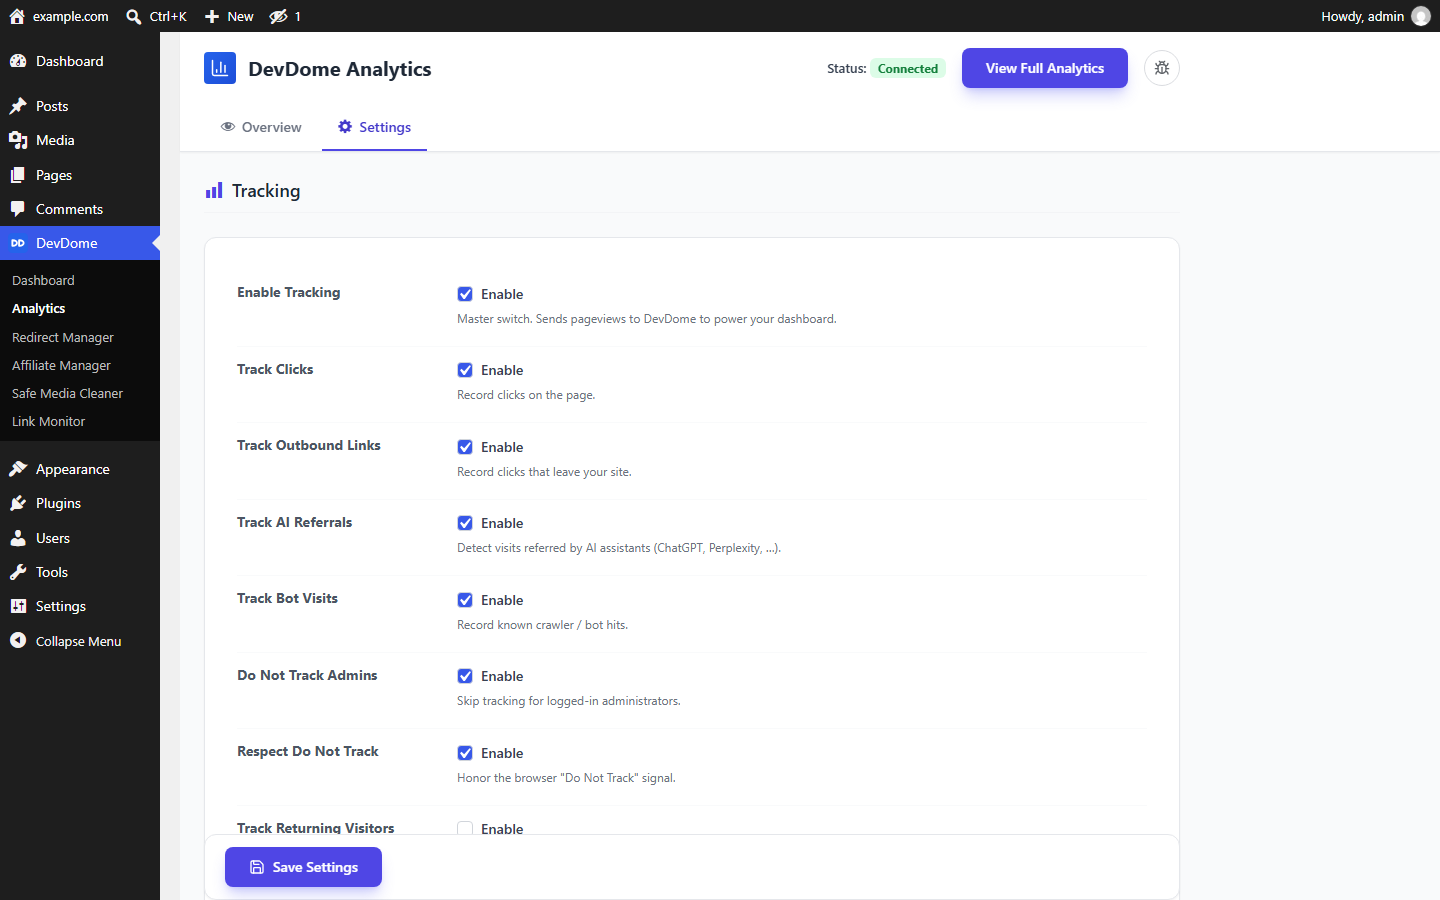
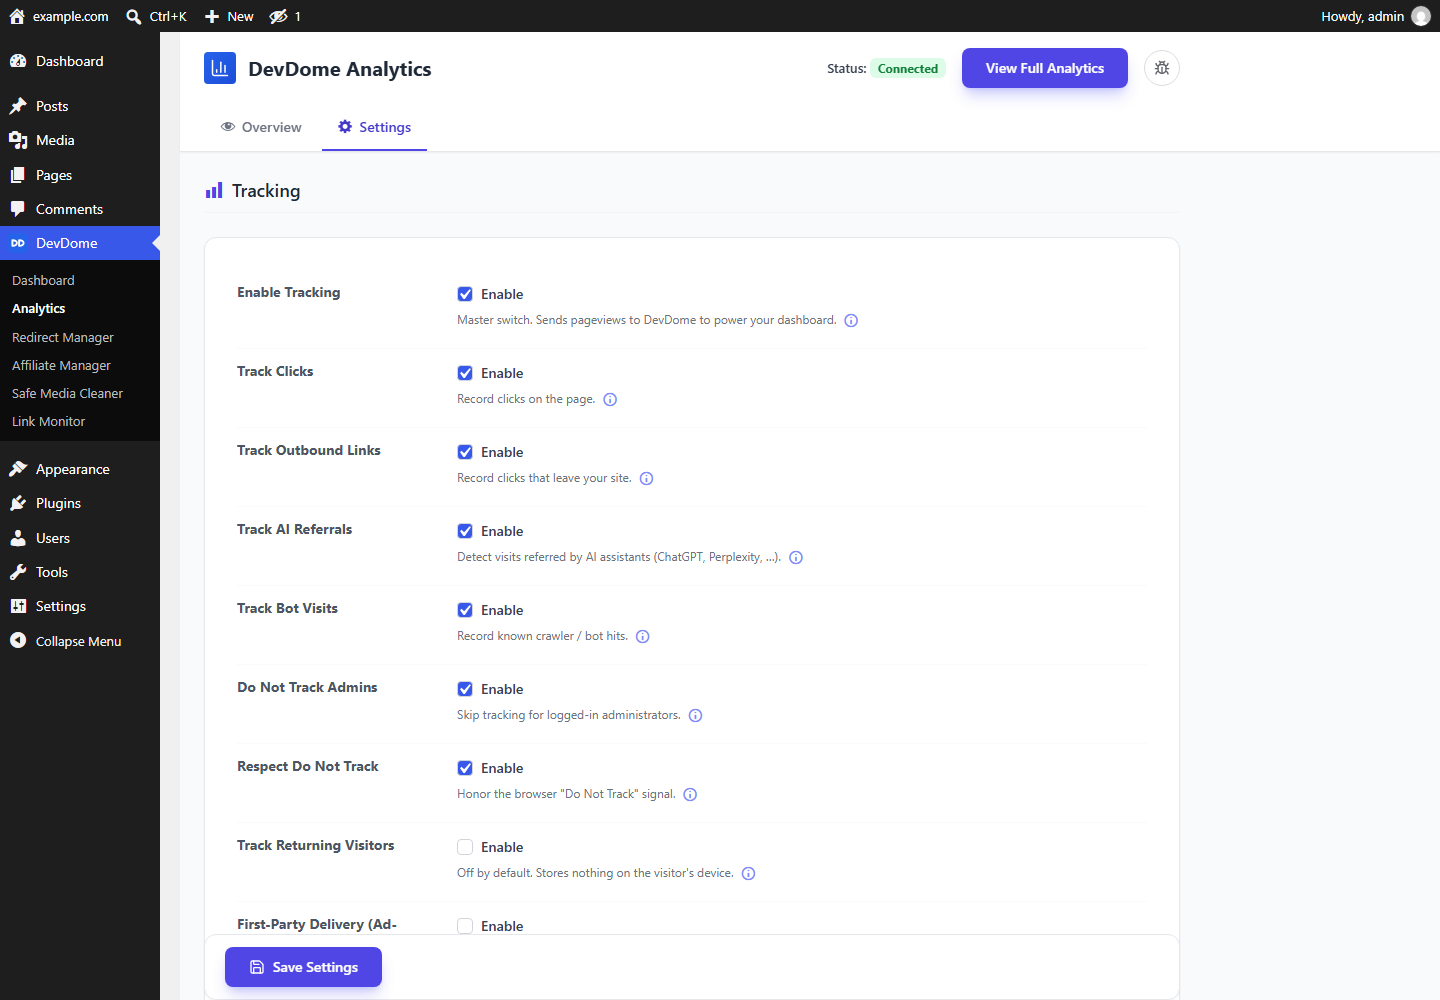
DevDome Analytics 1.0.7 - mirror of the WordPress.org release

diff --git a/lib/devdome-core/hub.php b/lib/devdome-core/hub.php
@@ -39,19 +39,38 @@ function devdcorev1_hub_catalog()
         'devdome-site-monitor'     => array('name' => 'Site Monitor',     'icon' => 'dashicons-heart',       'desc' => 'Uptime, speed, security, SEO &amp; affiliate health in one dashboard.',     'get_url' => 'https://devdome.com/site-monitor',     'position' => 20,  'wporg_slug' => '', 'listed' => false, 'plugin_file' => 'devdome-site-monitor/devdome-site-monitor.php'),
         'devdome-bot-protection'   => array('name' => 'Bot Protection',   'icon' => 'dashicons-shield',      'desc' => 'Block fake clicks &amp; bot traffic so your stats stay real.',               'get_url' => 'https://devdome.com/bot-protection',   'position' => 30,  'wporg_slug' => '', 'listed' => false, 'plugin_file' => 'devdome-bot-protection/devdome-bot-protection.php'),
         'devdome-security-scanner' => array('name' => 'Security Scanner', 'icon' => 'dashicons-shield-alt',  'desc' => 'Scan for malware, vulnerabilities &amp; hardening gaps.',                    'get_url' => 'https://devdome.com/security-scanner', 'position' => 40,  'wporg_slug' => '', 'listed' => false, 'plugin_file' => 'devdome-security-scanner/devdome-security-scanner.php'),
-        'devdome-redirect-manager' => array('name' => 'Redirect Manager', 'icon' => 'dashicons-randomize',   'desc' => 'Rule-based redirects &amp; smart affiliate links with per-rule stats.',              'get_url' => 'https://devdome.com/redirect-manager', 'position' => 50,  'wporg_slug' => '', 'listed' => false, 'plugin_file' => 'devdome-redirect-manager/devdome-redirect-manager.php'),
-        'devdome-affiliate-manager'=> array('name' => 'Affiliate Manager','icon' => 'dashicons-admin-links', 'desc' => 'Sitewide affiliate tags, geo-routing, link scanning &amp; click stats.',      'get_url' => 'https://devdome.com/affiliate-manager','position' => 60,  'wporg_slug' => '', 'listed' => false, 'plugin_file' => 'devdome-affiliate-manager/devdome-affiliate-manager.php'),
+        'devdome-redirect-manager' => array('name' => 'Redirect Manager', 'icon' => 'dashicons-randomize',   'desc' => 'Rule-based redirects &amp; smart affiliate links with per-rule stats.',              'get_url' => 'https://devdome.com/wp-plugins/redirect-manager/', 'position' => 50,  'wporg_slug' => 'devdome-redirect-manager', 'listed' => true, 'plugin_file' => 'devdome-redirect-manager/devdome-redirect-manager.php'),
+        'devdome-affiliate-manager'=> array('name' => 'Affiliate Manager','icon' => 'dashicons-admin-links', 'desc' => 'Sitewide affiliate tags, geo-routing, link scanning &amp; click stats.',      'get_url' => 'https://devdome.com/wp-plugins/affiliate-manager/','position' => 60,  'wporg_slug' => 'devdome-affiliate-manager', 'listed' => true, 'plugin_file' => 'devdome-affiliate-manager/devdome-affiliate-manager.php'),
         'devdome-product-importer' => array('name' => 'Product Importer', 'icon' => 'dashicons-cart',        'desc' => 'Import Amazon products into WooCommerce with AI content &amp; transit links.', 'get_url' => 'https://devdome.com/product-importer', 'position' => 70,  'wporg_slug' => '', 'listed' => false, 'plugin_file' => 'devdome-product-importer/devdome-product-importer.php'),
         'devdome-safe-media-cleaner'    => array('name' => 'Safe Media Cleaner', 'icon' => 'dashicons-format-image','desc' => 'Find unused images, orphaned files &amp; duplicates. Recycle Bin restore.',                      'get_url' => 'https://devdome.com/wp-plugins/safe-media-cleaner/',    'position' => 80,  'wporg_slug' => 'devdome-safe-media-cleaner', 'listed' => true, 'plugin_file' => 'devdome-safe-media-cleaner/devdome-safe-media-cleaner.php'),
+        'devdome-link-monitor'     => array('name' => 'Link Monitor',     'icon' => 'dashicons-editor-unlink', 'desc' => 'Find broken links and monitor 404s, with a conservative checker that says unverified instead of guessing.', 'get_url' => 'https://devdome.com/wp-plugins/link-monitor/', 'position' => 85,  'wporg_slug' => 'devdome-link-monitor', 'listed' => true, 'plugin_file' => 'devdome-link-monitor/devdome-link-monitor.php'),
+        'devdome-malware-scanner'  => array('name' => 'Malware Scanner',  'icon' => 'dashicons-shield-alt',  'desc' => 'Malware and backdoor scanner: file integrity, database injections, rogue admins, cron persistence, quarantine and one-click repair.', 'get_url' => 'https://devdome.com/wp-plugins/', 'position' => 45,  'wporg_slug' => '', 'listed' => false, 'plugin_file' => 'devdome-malware-scanner/devdome-malware-scanner.php'),
         'devdome-admin-cleaner'    => array('name' => 'Admin Cleaner',    'icon' => 'dashicons-hidden',      'desc' => 'Hide admin nags, declutter the dashboard &amp; create safer client screens.', 'get_url' => 'https://devdome.com/admin-cleaner',    'position' => 90,  'wporg_slug' => '', 'listed' => false, 'plugin_file' => 'devdome-admin-cleaner/devdome-admin-cleaner.php'),
         'devdome-backup-migration' => array('name' => 'Backup &amp; Recovery', 'icon' => 'dashicons-backup', 'desc' => 'Reversible updates: a restore point, verify &amp; auto-rollback on every update.', 'get_url' => 'https://devdome.com/backup-migration', 'position' => 100, 'wporg_slug' => '', 'listed' => false, 'plugin_file' => 'devdome-backup-migration/devdome-backup-migration.php'),
     );
-    // The live list comes from devdome.com (names, descriptions, links, logos, wp.org slugs) so an
-    // old bundled core still shows the current plugin lineup. The list above is the offline fallback.
+    // The live list comes from devdome.com (names, descriptions, links, logos, versions) so an
+    // old bundled core still shows the current plugin lineup. The list above is the offline fallback
+    // AND the only source of installer identity: wporg_slug / plugin_file are compiled in here and
+    // are never taken from the network (the sanitizer drops them), so a wrong or tampered catalog can
+    // only change what a card says, never which WordPress.org plugin an Install click fetches.
     foreach (devdcorev1_hub_remote_catalog() as $slug => $row) {
+        unset($row['wporg_slug'], $row['plugin_file']); // also covers a catalog cached by an older core
         $list[$slug] = isset($list[$slug]) && is_array($list[$slug]) ? array_merge($list[$slug], $row) : $row;
     }
     return apply_filters('devdcorev1_hub_catalog', $list);
+}
+
+/**
+ * True once this site is connected to a DevDome account (the stored connection state, no remote
+ * call). The catalog fetch is opt-in by connection; disconnected sites never contact devdome.com.
+ */
+function devdcorev1_hub_catalog_consented()
+{
+    if ('' === (string) get_option('devdcorev1_site_token', '')) {
+        return false;
+    }
+    $state = get_option('devdcorev1_conn_state', array());
+    return is_array($state) && !empty($state['ok']);
 }
 
 /** Where the live catalog lives. A plain JSON file, fetched at most once every 12 hours. */
@@ -70,6 +89,11 @@ function devdcorev1_hub_remote_catalog()
     static $memo = null;
     if (is_array($memo)) {
         return $memo;
+    }
+    // Consent gate (1.6.5): devdome.com is contacted for the catalog only once the site owner has
+    // connected a DevDome account. Before that the bundled list above is all the hub shows.
+    if (!devdcorev1_hub_catalog_consented()) {
+        return $memo = array();
     }
     $cached = get_site_transient('devdcorev1_hub_catalog_remote');
     if (is_array($cached)) {
@@ -111,12 +135,8 @@ function devdcorev1_hub_sanitize_catalog_row($row)
             $out['get_url'] = $u;
         }
     }
-    if (isset($row['wporg_slug']) && preg_match('/^[a-z0-9-]{0,60}$/', (string) $row['wporg_slug'])) {
-        $out['wporg_slug'] = (string) $row['wporg_slug'];
-    }
-    if (isset($row['plugin_file']) && preg_match('#^[a-z0-9-]+/[a-z0-9-]+\.php$#', (string) $row['plugin_file'])) {
-        $out['plugin_file'] = (string) $row['plugin_file'];
-    }
+    // wporg_slug / plugin_file are deliberately NOT accepted from the remote catalog (1.6.4): the
+    // installer identity stays compiled into devdcorev1_hub_catalog().
     if (isset($row['logo'])) {
         $attrs = array('d' => true, 'cx' => true, 'cy' => true, 'r' => true, 'rx' => true, 'ry' => true, 'x' => true, 'y' => true,
             'x1' => true, 'y1' => true, 'x2' => true, 'y2' => true, 'width' => true, 'height' => true, 'points' => true,
@@ -494,8 +514,7 @@ function devdcorev1_hub_render_default()
     ?>
     <div class="dd-app">
         <?php
-        // phpcs:ignore WordPress.Security.EscapeOutput.OutputNotEscaped -- returns fully-escaped HTML.
-        if (function_exists('devdcorev1_hub_install_notice')) { echo devdcorev1_hub_install_notice(); }
+        if (function_exists('devdcorev1_hub_install_notice')) { echo wp_kses_post(devdcorev1_hub_install_notice()); }
         ?>
         <!-- header bar: the suite-wide §14 frame (white bar, brand badge, title, bug report) -->
         <div class="ddh-bar">
@@ -581,7 +600,7 @@ function devdcorev1_hub_render_default()
                             <div class="ddh-rver">v<?php echo esc_html($r['version'] ? $r['version'] : '1.0'); ?><?php if ($new_ver !== '') : ?> <span class="ddh-up">&rarr; v<?php echo esc_html($new_ver); ?></span><?php if ($upd_url) : ?><a class="ddh-upbtn" href="<?php echo esc_url($upd_url); ?>" data-dd-plugin="<?php echo esc_attr($pf); ?>" data-dd-ver="<?php echo esc_attr($new_ver); ?>" data-dd-nonce="<?php echo esc_attr(wp_create_nonce('updates')); ?>" onclick="event.stopPropagation()"><?php echo $ic_update; // phpcs:ignore WordPress.Security.EscapeOutput.OutputNotEscaped ?>Update</a><?php endif; ?><?php endif; ?></div>
                         </div><?php if (!empty($r['desc'])) : ?><div class="ddh-rsub"><?php echo esc_html(wp_strip_all_tags($r['desc'])); ?></div><?php endif; ?></div></div>
                         <?php if ($has) : ?>
-                            <span class="ddh-st warn"><span class="dot"></span><?php echo (int) count($r_issues); ?> Issue<?php echo count($r_issues) === 1 ? '' : 's'; ?><span class="caret"><?php echo $ic_caret; // phpcs:ignore WordPress.Security.EscapeOutput.OutputNotEscaped ?></span></span>
+                            <span class="ddh-st warn"><span class="dot"></span><?php echo (int) count($r_issues); ?> Issue<?php echo esc_html(count($r_issues) === 1 ? '' : 's'); ?><span class="caret"><?php echo $ic_caret; // phpcs:ignore WordPress.Security.EscapeOutput.OutputNotEscaped ?></span></span>
                         <?php else : ?>
                             <span class="ddh-st ok"><?php echo $ic_check; // phpcs:ignore WordPress.Security.EscapeOutput.OutputNotEscaped ?>No Issues</span>
                         <?php endif; ?>
@@ -628,8 +647,7 @@ function devdcorev1_hub_render_default()
                             <?php if (!empty($r['get_url'])) : ?><a class="ddh-btn ddh-btn-ghost ddh-docs" href="<?php echo esc_url($r['get_url']); ?>" target="_blank" rel="noopener" onclick="event.stopPropagation()">Docs</a><?php endif; ?>
                             <?php
                             if (function_exists('devdcorev1_hub_install_actions')) {
-                                // phpcs:ignore WordPress.Security.EscapeOutput.OutputNotEscaped -- esc_url-built anchor HTML.
-                                echo devdcorev1_hub_install_actions($r);
+                                echo wp_kses_post(devdcorev1_hub_install_actions($r));
                             } else { ?>
                                 <a class="ddh-btn ddh-btn-solid" href="<?php echo esc_url($r['get_url']); ?>" target="_blank" rel="noopener"><?php echo $ic_dl; // phpcs:ignore WordPress.Security.EscapeOutput.OutputNotEscaped ?>Get it</a>
                             <?php } ?>

diff --git a/includes/class-devdome-admin.php b/includes/class-devdome-admin.php
@@ -20,19 +20,24 @@ class DEVDALYT_Admin {
 	 * build_state(), where every get_option() key is a literal at its call site.
 	 */
 	const SWITCHES = array(
-		array( 'tracking',   'Enable Tracking',      'Master switch. Sends pageviews to DevDome to power your dashboard.' ),
-		array( 'clicks',     'Track Clicks',         'Record clicks on the page.' ),
-		array( 'outbound',   'Track Outbound Links', 'Record clicks that leave your site.' ),
-		array( 'ai',         'Track AI Referrals',   'Detect visits referred by AI assistants (ChatGPT, Perplexity, …).' ),
-		array( 'bots',       'Track Bot Visits',     'Record known crawler / bot hits.' ),
-		array( 'dnt_admins', 'Do Not Track Admins',  'Skip tracking for logged-in administrators.' ),
-		array( 'dnt',        'Respect Do Not Track', 'Honor the browser "Do Not Track" signal.' ),
+		array( 'tracking', 'Enable Tracking', 'Master switch. Sends pageviews to DevDome to power your dashboard.', 'Off means no pageview leaves the site and the dashboard stops updating. Only anonymous page, referrer, country, device and browser data is sent, never names, emails or full IP addresses.' ),
+		array( 'clicks', 'Track Clicks', 'Record clicks on the page.', 'Every click on a link or button is counted per page, so you can see which elements get used. Only the element and the page are sent, nothing personal.' ),
+		array( 'outbound', 'Track Outbound Links', 'Record clicks that leave your site.', 'Clicks on links to other sites are recorded with their destination, which powers the exit links report. Off means the outbound click numbers stay empty.' ),
+		array( 'ai', 'Track AI Referrals', 'Detect visits referred by AI assistants (ChatGPT, Perplexity, …).', 'Visits arriving from ChatGPT, Perplexity, Claude, Gemini and similar assistants are labelled as AI referrals, so you can see how much traffic AI answers bring you.' ),
+		array( 'bots', 'Track Bot Visits', 'Record known crawler / bot hits.', 'Known crawlers and bots, including search engines, SEO tools and AI crawlers, are recorded separately from human visitors. Off means bots are dropped entirely and the bots report stays empty. Human numbers are never inflated either way.' ),
+		array( 'dnt_admins', 'Do Not Track Admins', 'Skip tracking for logged-in administrators.', 'Logged-in administrators are not counted, so your own editing sessions do not inflate the visitor numbers.' ),
+		array( 'dnt', 'Respect Do Not Track', 'Honor the browser "Do Not Track" signal.', 'Browsers that send the Do Not Track signal are not tracked at all. Some privacy laws expect this. The cost is a slightly lower visitor count.' ),
 		// The consent warning is part of the switch, not buried in a doc. Off by default on new
 		// sites: DevDome then writes NOTHING to a visitor's device and needs no cookie banner.
-		array( 'returning',  'Track Returning Visitors', 'Sets a first-party cookie so the same visitor is recognised across days, and clicks can be tied back to their visit (needed for affiliate attribution). You may need visitor consent for this. Leave it off and DevDome stores nothing on your visitors\' devices.' ),
+		array( 'returning',  'Track Returning Visitors', 'Off by default. Stores nothing on the visitor\'s device.', 'Sets a first-party cookie so the same visitor is recognised across days, and clicks can be tied back to their visit (needed for affiliate attribution). You may need visitor consent for this. Leave it off and DevDome stores nothing on your visitors\' devices.' ),
 		// Honest claim on purpose: "most, not all" - never advertise a full ad-block bypass.
-		array( 'first_party', 'First-Party Delivery (Ad-Block Resistant)', 'Serves the tracking script from your own domain and relays events through your site server-side, using randomized names unique to your site. Ordinary ad blockers that block third-party analytics domains cannot drop it, so you count visitors they normally hide. Bypasses most, not all, blockers. Works alongside caching and speed plugins without configuration.' ),
+		array( 'first_party', 'First-Party Delivery (Ad-Block Resistant)', 'Serves the tracker from your own domain, so most ad blockers cannot drop it.', 'Serves the tracking script from your own domain and relays events through your site server-side, using randomized names unique to your site. Ordinary ad blockers that block third-party analytics domains cannot drop it, so you count visitors they normally hide. Bypasses most, not all, blockers. Works alongside caching and speed plugins without configuration.' ),
 	);
+
+	/** Info icon with the long explanation in a hover box; the visible hint stays one line. */
+	public static function tip( $text ) {
+		echo '<span class="dd-tip"><span class="dashicons dashicons-info-outline"></span><span class="dd-tip-box">' . esc_html( $text ) . '</span></span>';
+	}
 
 	public function __construct() {
 		add_action( 'admin_menu', array( $this, 'add_menu' ) );
@@ -115,6 +120,11 @@ class DEVDALYT_Admin {
 			.dd-app .dd-footer-inner { display:flex; align-items:center; gap:16px; padding:12px 20px; }
 			.dd-app .dd-footer-actions { display:flex; align-items:center; gap:10px; flex-wrap:wrap; flex-shrink:0; }
 			.dd-app .dd-hint { display:block; margin-top:6px; font-size:12px; color:#6b7280; }
+			.dd-app .dd-tip { position:relative; display:inline-flex; align-items:center; vertical-align:middle; margin-left:4px; }
+			.dd-app .dd-tip .dashicons { cursor:help; color:#818cf8; font-size:15px; width:15px; height:15px; line-height:15px; }
+			.dd-app .dd-tip:hover .dashicons { color:#4f46e5; }
+			.dd-app .dd-tip-box { pointer-events:none; visibility:hidden; opacity:0; position:absolute; bottom:100%; left:50%; z-index:9999; margin-bottom:.5rem; width:max-content; max-width:280px; transform:translateX(-50%); border-radius:.5rem; border:1px solid #e0e7ff; background:#eef2ff; padding:.625rem; text-align:left; font-size:.75rem; line-height:1.625; font-weight:400; color:#3730a3; box-shadow:0 20px 25px -5px rgba(0,0,0,.1), 0 8px 10px -6px rgba(0,0,0,.1); transition:opacity .15s; }
+			.dd-app .dd-tip:hover .dd-tip-box { visibility:visible; opacity:1; }
 			/* Settings: option lists render vertically, one per row. */
 			.dd-app .da-optlist { display:block; }
 			.dd-app .da-optlist .dd-opt { display:flex; align-items:center; gap:6px; margin:0 0 8px; }
@@ -413,7 +423,7 @@ class DEVDALYT_Admin {
 							$fp_allowed    = ! empty( $switch_values['first_party_allowed'] );
 							$fp_authfail   = ! empty( $switch_values['first_party_auth_failed'] );
 							foreach ( self::SWITCHES as $sw ) :
-								list( $key, $label, $desc ) = $sw;
+								list( $key, $label, $desc, $long ) = $sw;
 								$on     = ! empty( $switch_values[ $key ] );
 								$frozen = ( 'first_party' === $key && ( ! $fp_connected || ! $fp_allowed ) ); ?>
 								<?php
@@ -447,7 +457,7 @@ class DEVDALYT_Admin {
 									<th><?php echo esc_html( $label ); ?></th>
 									<td>
 										<label class="dd-opt"><input type="checkbox" class="dd-check" data-setting="<?php echo esc_attr( $key ); ?>" <?php checked( $on ); ?><?php disabled( $frozen ); ?>> Enable</label>
-										<p class="description"><?php echo esc_html( $desc ); ?></p>
+										<p class="dd-hint"><?php echo esc_html( $desc ); ?> <?php self::tip( $long ); ?></p>
 										<?php if ( 'first_party' === $key && $fp_authfail ) : ?>
 											<p class="description" style="color:#b91c1c;">
 												<?php esc_html_e( 'DevDome rejected this site\'s credentials, so First-Party Delivery was switched off. Disconnect and reconnect the site, then enable it again.', 'devdome-analytics' ); ?>
@@ -469,7 +479,7 @@ class DEVDALYT_Admin {
 									<label class="dd-opt"><input type="checkbox" class="dd-check" data-role="<?php echo esc_attr( $role ); ?>" <?php checked( in_array( $role, $excluded_roles, true ) ); ?>> <?php echo esc_html( translate_user_role( $info['name'] ) ); ?></label>
 								<?php endforeach; ?>
 							</div>
-							<span class="dd-hint">Logged-in users with these roles are never tracked.</span>
+							<p class="dd-hint">Logged-in users with these roles are never tracked. <?php self::tip( 'Visits by users who are logged in with one of the ticked roles are not sent to DevDome at all. Use it for editors and shop staff so internal work never shows up as traffic.' ); ?></p>
 						</div>
 					</section>
 

diff --git a/lib/devdome-core/hub-install.php b/lib/devdome-core/hub-install.php
@@ -109,7 +109,6 @@ function devdcorev1_hub_handle_install()
     require_once ABSPATH . 'wp-admin/includes/plugin.php';
     require_once ABSPATH . 'wp-admin/includes/plugin-install.php';
     require_once ABSPATH . 'wp-admin/includes/file.php';
-    require_once ABSPATH . 'wp-admin/includes/misc.php';
     require_once ABSPATH . 'wp-admin/includes/class-wp-upgrader.php';
 
     $result = 'fail';
@@ -124,15 +123,9 @@ function devdcorev1_hub_handle_install()
         $upgrader  = new Plugin_Upgrader(new WP_Ajax_Upgrader_Skin());
         $installed = $upgrader->install($api->download_link);
         if (!is_wp_error($installed) && $installed === true) {
+            // Install only. The plugin stays INACTIVE until the owner clicks Activate on its
+            // card (a separate, explicit action); nothing is ever activated on their behalf.
             $result = 'installed';
-            // Install leaves the plugin INACTIVE (so it never self-registers); activate it so the card flips.
-            $file = isset($catalog[$slug]['plugin_file']) ? (string) $catalog[$slug]['plugin_file'] : '';
-            if ($file && current_user_can('activate_plugins')) {
-                $act = activate_plugin($file);
-                if (!is_wp_error($act)) {
-                    $result = 'active';
-                }
-            }
         }
     }
 
@@ -162,9 +155,6 @@ if (!function_exists('devdcorev1_hub_install_notice')) {
 
         if ($res === 'activated') {
             return '<div class="dd-hub-connect" data-ddnotice="1" style="border-color:#a7f3d0;background:#ecfdf5;"><span class="dashicons dashicons-yes-alt" style="color:#059669;"></span><div class="dd-hub-connect-body"><strong>' . esc_html($name) . ' is active.</strong></div></div>';
-        }
-        if ($res === 'active') {
-            return '<div class="dd-hub-connect" data-ddnotice="1" style="border-color:#a7f3d0;background:#ecfdf5;"><span class="dashicons dashicons-yes-alt" style="color:#059669;"></span><div class="dd-hub-connect-body"><strong>' . esc_html($name) . ' is installed and active.</strong></div></div>';
         }
         if ($res === 'installed') {
             return '<div class="dd-hub-connect" data-ddnotice="1"><span class="dashicons dashicons-info"></span><div class="dd-hub-connect-body"><strong>' . esc_html($name) . ' is installed.</strong><span>Activate it from the list below.</span></div></div>';

diff --git a/devdome-analytics.php b/devdome-analytics.php
@@ -3,7 +3,7 @@
  * Plugin Name: DevDome Analytics
  * Plugin URI: https://devdome.com/features/analytics
  * Description: Traffic analytics, visitor statistics and click tracking for WordPress, with AI referral detection and bot-filtered numbers.
- * Version: 1.0.6
+ * Version: 1.0.7
  * Author: DevDome
  * Author URI: https://devdome.com
  * License: GPLv2 or later
@@ -30,7 +30,7 @@ if ( file_exists( __DIR__ . '/wporg-build.php' ) ) {
 	require __DIR__ . '/wporg-build.php';
 }
 
-define( 'DEVDALYT_VERSION', '1.0.6' );
+define( 'DEVDALYT_VERSION', '1.0.7' );
 define( 'DEVDALYT_FILE', __FILE__ );
 define( 'DEVDALYT_DIR', plugin_dir_path( __FILE__ ) );
 define( 'DEVDALYT_URL', plugin_dir_url( __FILE__ ) );

diff --git a/lib/devdome-core/devdome-core.php b/lib/devdome-core/devdome-core.php
@@ -20,7 +20,7 @@ if (defined('DEVDCOREV1_LOADED')) {
     return; // a higher/equal version already loaded the library
 }
 define('DEVDCOREV1_LOADED', true);
-define('DEVDCOREV1_VERSION', '1.6.3');
+define('DEVDCOREV1_VERSION', '1.6.5');
 
 if (!defined('DEVDCOREV1_FEED_ENDPOINT')) {
     define('DEVDCOREV1_FEED_ENDPOINT', 'https://api.devdome.com/bot-protection');

diff --git a/lib/devdome-core/loader.php b/lib/devdome-core/loader.php
@@ -52,4 +52,4 @@ if (!class_exists('DEVDCOREV1_Loader')) {
     add_action('plugins_loaded', array('DEVDCOREV1_Loader', 'load'), -100);
 }
 
-DEVDCOREV1_Loader::register('1.6.3', __DIR__ . '/devdome-core.php');
+DEVDCOREV1_Loader::register('1.6.5', __DIR__ . '/devdome-core.php');
